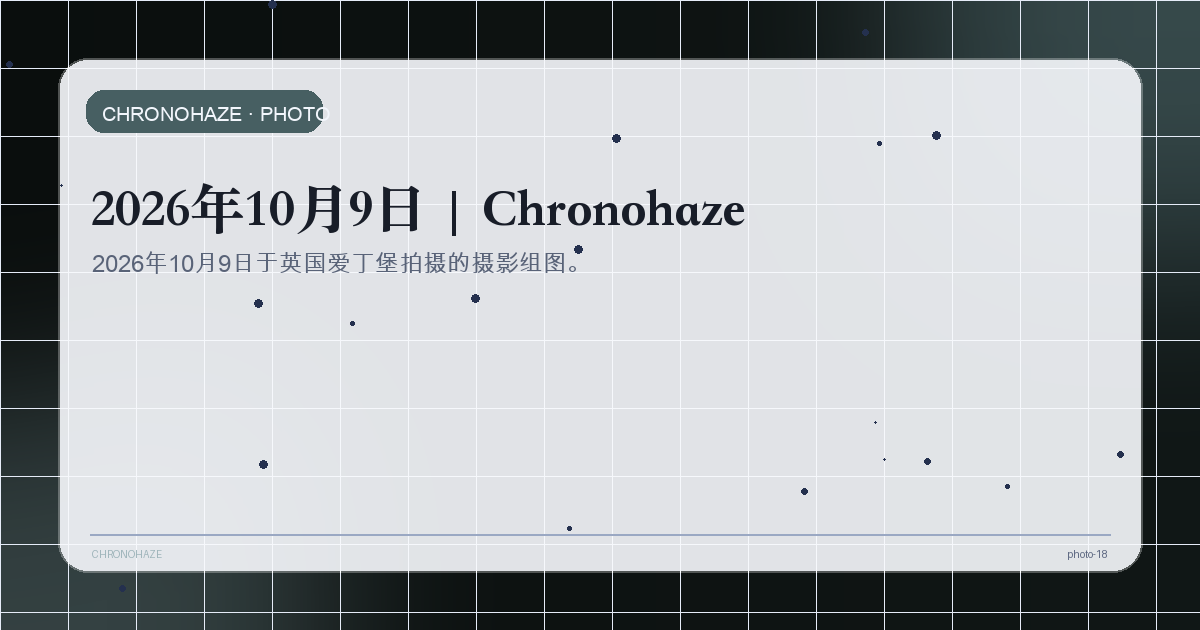
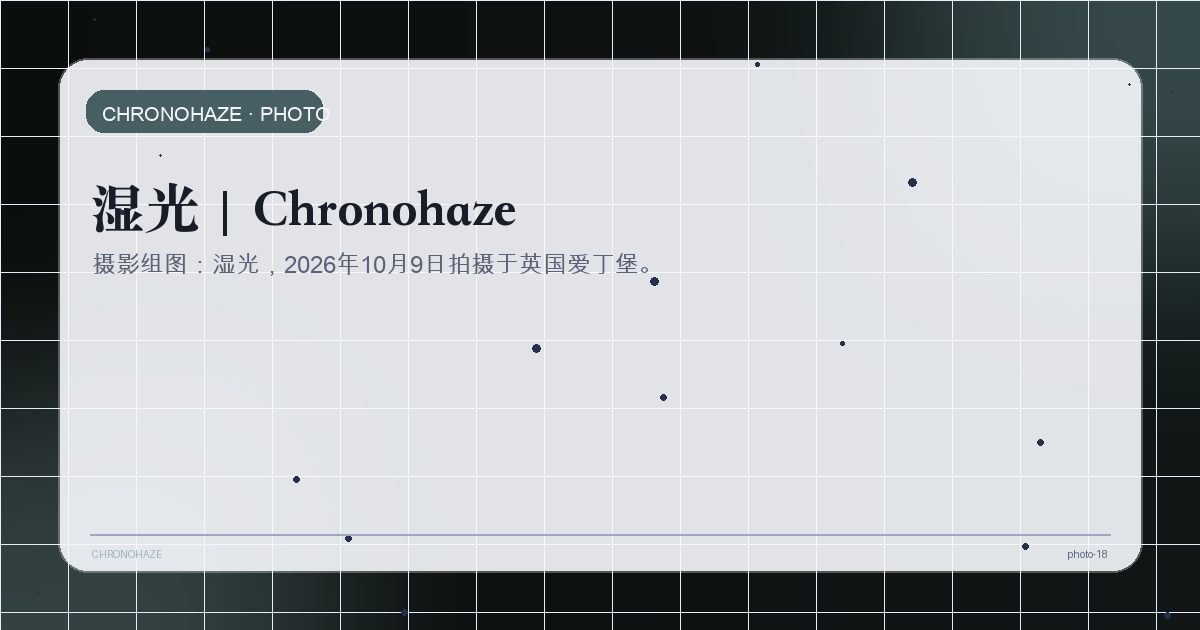
Name Wet Light series and update its cover

Changed region(s): [[0.0617, 0.2714, 0.6167, 0.4524], [0.5242, 0.4222, 0.555, 0.4524]]

diff --git a/photo/photo-18.html b/photo/photo-18.html
@@ -152,17 +152,17 @@
   </script>
   <link rel="icon" type="image/x-icon" href="../assets/favicon.ico?v=4" />
   <link rel="apple-touch-icon" href="../assets/apple-touch-icon.png?v=4" />
-  <title>2026年10月9日 | 摄影 | Chronohaze</title>
-  <meta name="description" content="2026年10月9日于英国爱丁堡拍摄的摄影组图。" />
+  <title>湿光 | 摄影 | Chronohaze</title>
+  <meta name="description" content="摄影组图：湿光，2026年10月9日拍摄于英国爱丁堡。" />
   <meta property="og:type" content="article" />
   <meta property="og:site_name" content="Chronohaze" />
-  <meta property="og:title" content="2026年10月9日 | Chronohaze" />
-  <meta property="og:description" content="2026年10月9日于英国爱丁堡拍摄的摄影组图。" />
+  <meta property="og:title" content="湿光 | Chronohaze" />
+  <meta property="og:description" content="摄影组图：湿光，2026年10月9日拍摄于英国爱丁堡。" />
   <meta property="og:url" content="https://lyuf09.github.io/chronohaze/photo/photo-18.html" />
   <meta property="og:image" content="https://lyuf09.github.io/chronohaze/assets/og/site/photo-18.png" />
   <meta name="twitter:card" content="summary_large_image" />
-  <meta name="twitter:title" content="2026年10月9日 | Chronohaze" />
-  <meta name="twitter:description" content="2026年10月9日于英国爱丁堡拍摄的摄影组图。" />
+  <meta name="twitter:title" content="湿光 | Chronohaze" />
+  <meta name="twitter:description" content="摄影组图：湿光，2026年10月9日拍摄于英国爱丁堡。" />
   <meta name="twitter:image" content="https://lyuf09.github.io/chronohaze/assets/og/site/photo-18.png" />
   <link rel="canonical" href="https://lyuf09.github.io/chronohaze/photo/photo-18.html" />
   <!-- GENERATED:hreflang:start -->
@@ -212,6 +212,7 @@
 
     <main id="main-content" class="main">
       <article class="article photo-detail-article">
+        <h1 data-copy-en="Wet Light" data-copy-zh="湿光">湿光</h1>
         <p class="photo-detail-date" data-copy-en="9 October 2026" data-copy-zh="2026 年 10 月 9 日">2026 年 10 月 9 日</p>
         <p class="article-meta" data-copy-en="Edinburgh, UK · 2026" data-copy-zh="英国爱丁堡 · 2026年">英国爱丁堡 · 2026年</p>
         <div class="photo-detail-gallery">

diff --git a/tests/runtime-smoke.spec.js b/tests/runtime-smoke.spec.js
@@ -2909,13 +2909,13 @@ test("photo detail metadata localizes dates, places, statements, and image alt t
   expect(errors).toEqual([]);
 });
 
-test("latest Edinburgh photo set leaves its series name and statement blank", async ({ page }) => {
+test("latest Edinburgh photo set exposes its title and leaves its statement blank", async ({ page }) => {
   const errors = trackPageErrors(page);
 
   await page.goto("photo/photo-18.html?lang=zh", { waitUntil: "domcontentloaded" });
   await waitForCriticalLoaderRelease(page);
-  await expect(page).toHaveTitle("2026年10月9日 | 摄影 | Chronohaze");
-  await expect(page.locator(".photo-detail-article h1")).toHaveCount(0);
+  await expect(page).toHaveTitle("湿光 | 摄影 | Chronohaze");
+  await expect(page.locator(".photo-detail-article h1")).toHaveText("湿光");
   await expect(page.locator(".photo-detail-statement")).toHaveCount(0);
   await expect(page.locator(".photo-detail-date")).toHaveText("2026 年 10 月 9 日");
   await expect(page.locator(".photo-detail-article .article-meta")).toHaveText(
@@ -2925,6 +2925,8 @@ test("latest Edinburgh photo set leaves its series name and statement blank", as
 
   await page.goto("photo/photo-18.html?lang=en", { waitUntil: "domcontentloaded" });
   await waitForCriticalLoaderRelease(page);
+  await expect(page).toHaveTitle("Wet Light | Photography | Chronohaze");
+  await expect(page.locator(".photo-detail-article h1")).toHaveText("Wet Light");
   await expect(page.locator(".photo-detail-date")).toHaveText("9 October 2026");
   await expect(page.locator(".photo-detail-article .article-meta")).toHaveText(
     "Edinburgh, UK · 2026"

diff --git a/photography.html b/photography.html
@@ -268,10 +268,11 @@
 <article class="photo-card">
 <a class="photo-card-link" href="photo/photo-18.html">
 <picture class="responsive-picture" style="display:block;width:100%;">
-<source sizes="(max-width: 640px) 92vw, (max-width: 980px) 46vw, 29vw" srcset="assets/images/wix/edinburgh-20261009-01-960.webp 960w, assets/images/wix/edinburgh-20261009-01-1600.webp 1600w" type="image/webp"/>
-<img alt="英国爱丁堡 · 2026年10月9日" data-alt-en="Edinburgh, UK · 9 October 2026" data-alt-zh="英国爱丁堡 · 2026年10月9日" decoding="async" height="3483" loading="lazy" sizes="(max-width: 640px) 92vw, (max-width: 980px) 46vw, 29vw" src="assets/images/wix/edinburgh-20261009-01-960.webp" width="6192"/>
+<source sizes="(max-width: 640px) 92vw, (max-width: 980px) 46vw, 29vw" srcset="assets/images/wix/edinburgh-20261009-03-960.webp 960w, assets/images/wix/edinburgh-20261009-03-1600.webp 1600w" type="image/webp"/>
+<img alt="湿光 — 英国爱丁堡" data-alt-en="Wet Light — Edinburgh, UK" data-alt-zh="湿光 — 英国爱丁堡" decoding="async" height="900" loading="lazy" sizes="(max-width: 640px) 92vw, (max-width: 980px) 46vw, 29vw" src="assets/images/wix/edinburgh-20261009-03-960.webp" width="1600"/>
 </picture>
 <div class="photo-meta">
+<p class="photo-title" data-copy-en="Wet Light" data-copy-zh="湿光">湿光</p>
 <p class="photo-date" data-copy-en="09/10/2026" data-copy-zh="09/10/2026">09/10/2026</p>
 <p class="photo-subtitle" data-copy-en="Read More" data-copy-zh="阅读全文">阅读全文</p>
 </div>

diff --git a/search.html b/search.html
@@ -251,7 +251,7 @@
   "generated_at": "2026-10-09",
   "items": [
     {
-      "title": "09/10/2026",
+      "title": "湿光",
       "url": "photo/photo-18.html",
       "section": "Photography",
       "date": "09/10/2026",
@@ -261,7 +261,7 @@
       ],
       "sort": 20261009,
       "scope": "photo",
-      "content": "2026 年 10 月 9 日 英国爱丁堡 · 2026年 ← 返回摄影"
+      "content": "湿光 2026 年 10 月 9 日 英国爱丁堡 · 2026年 ← 返回摄影"
     },
     {
       "title": "Research Statement | Feier Lyu (Fay Lyu)",
